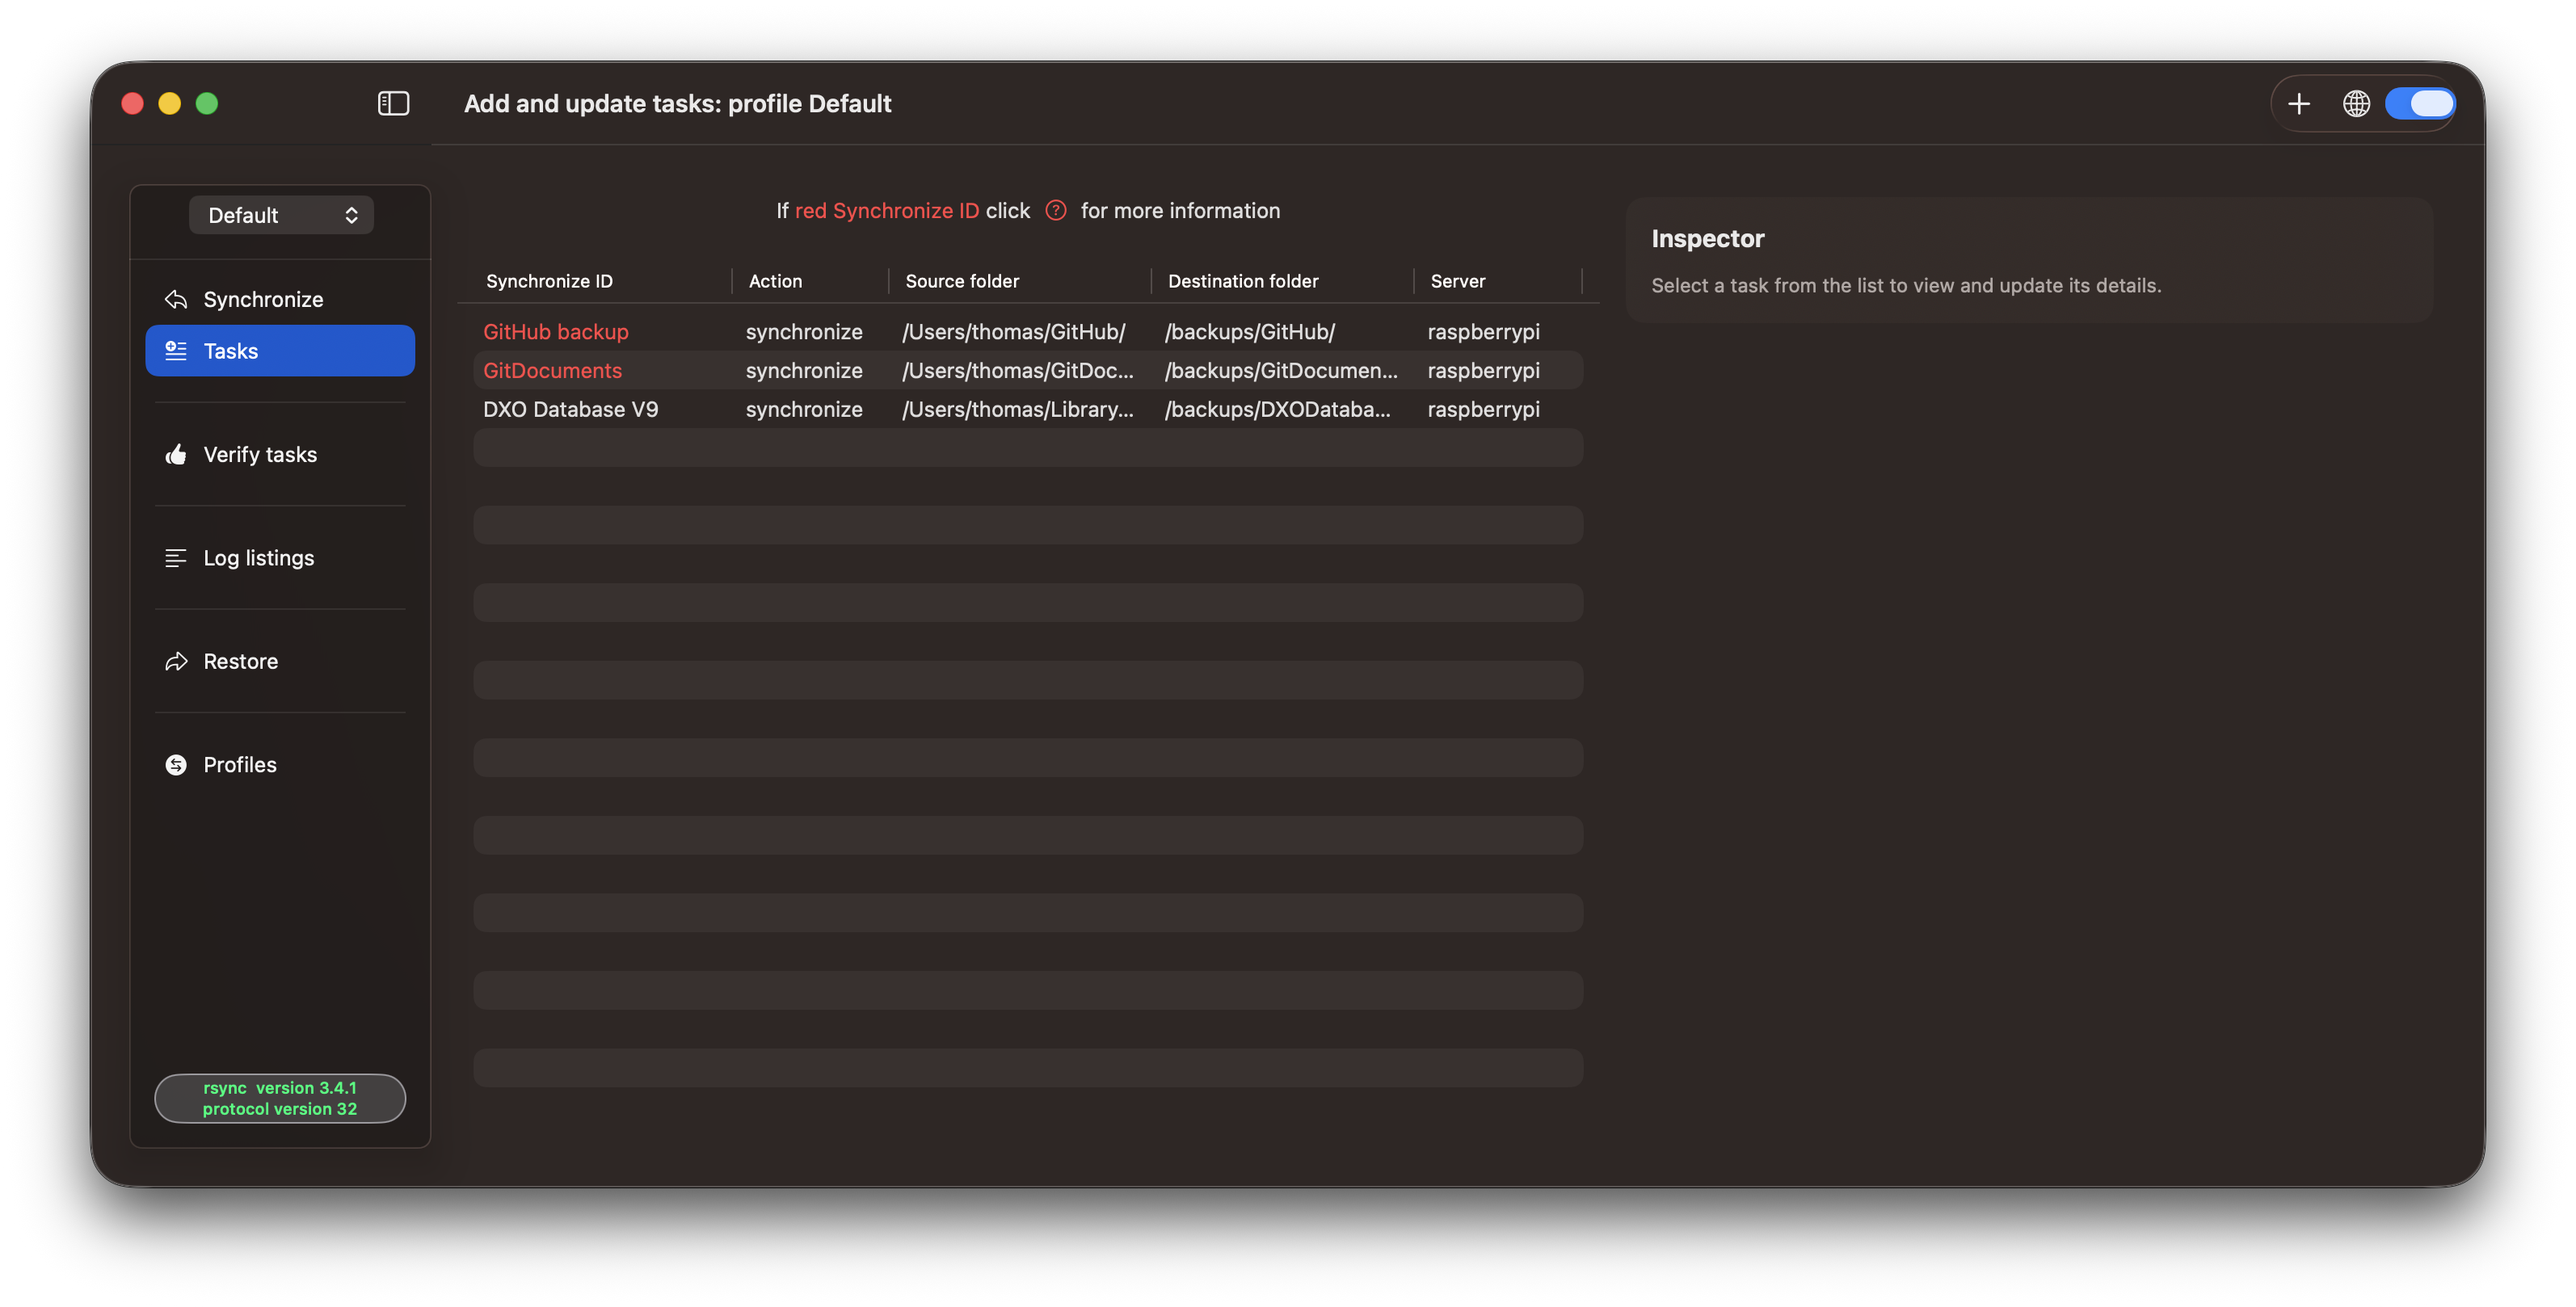
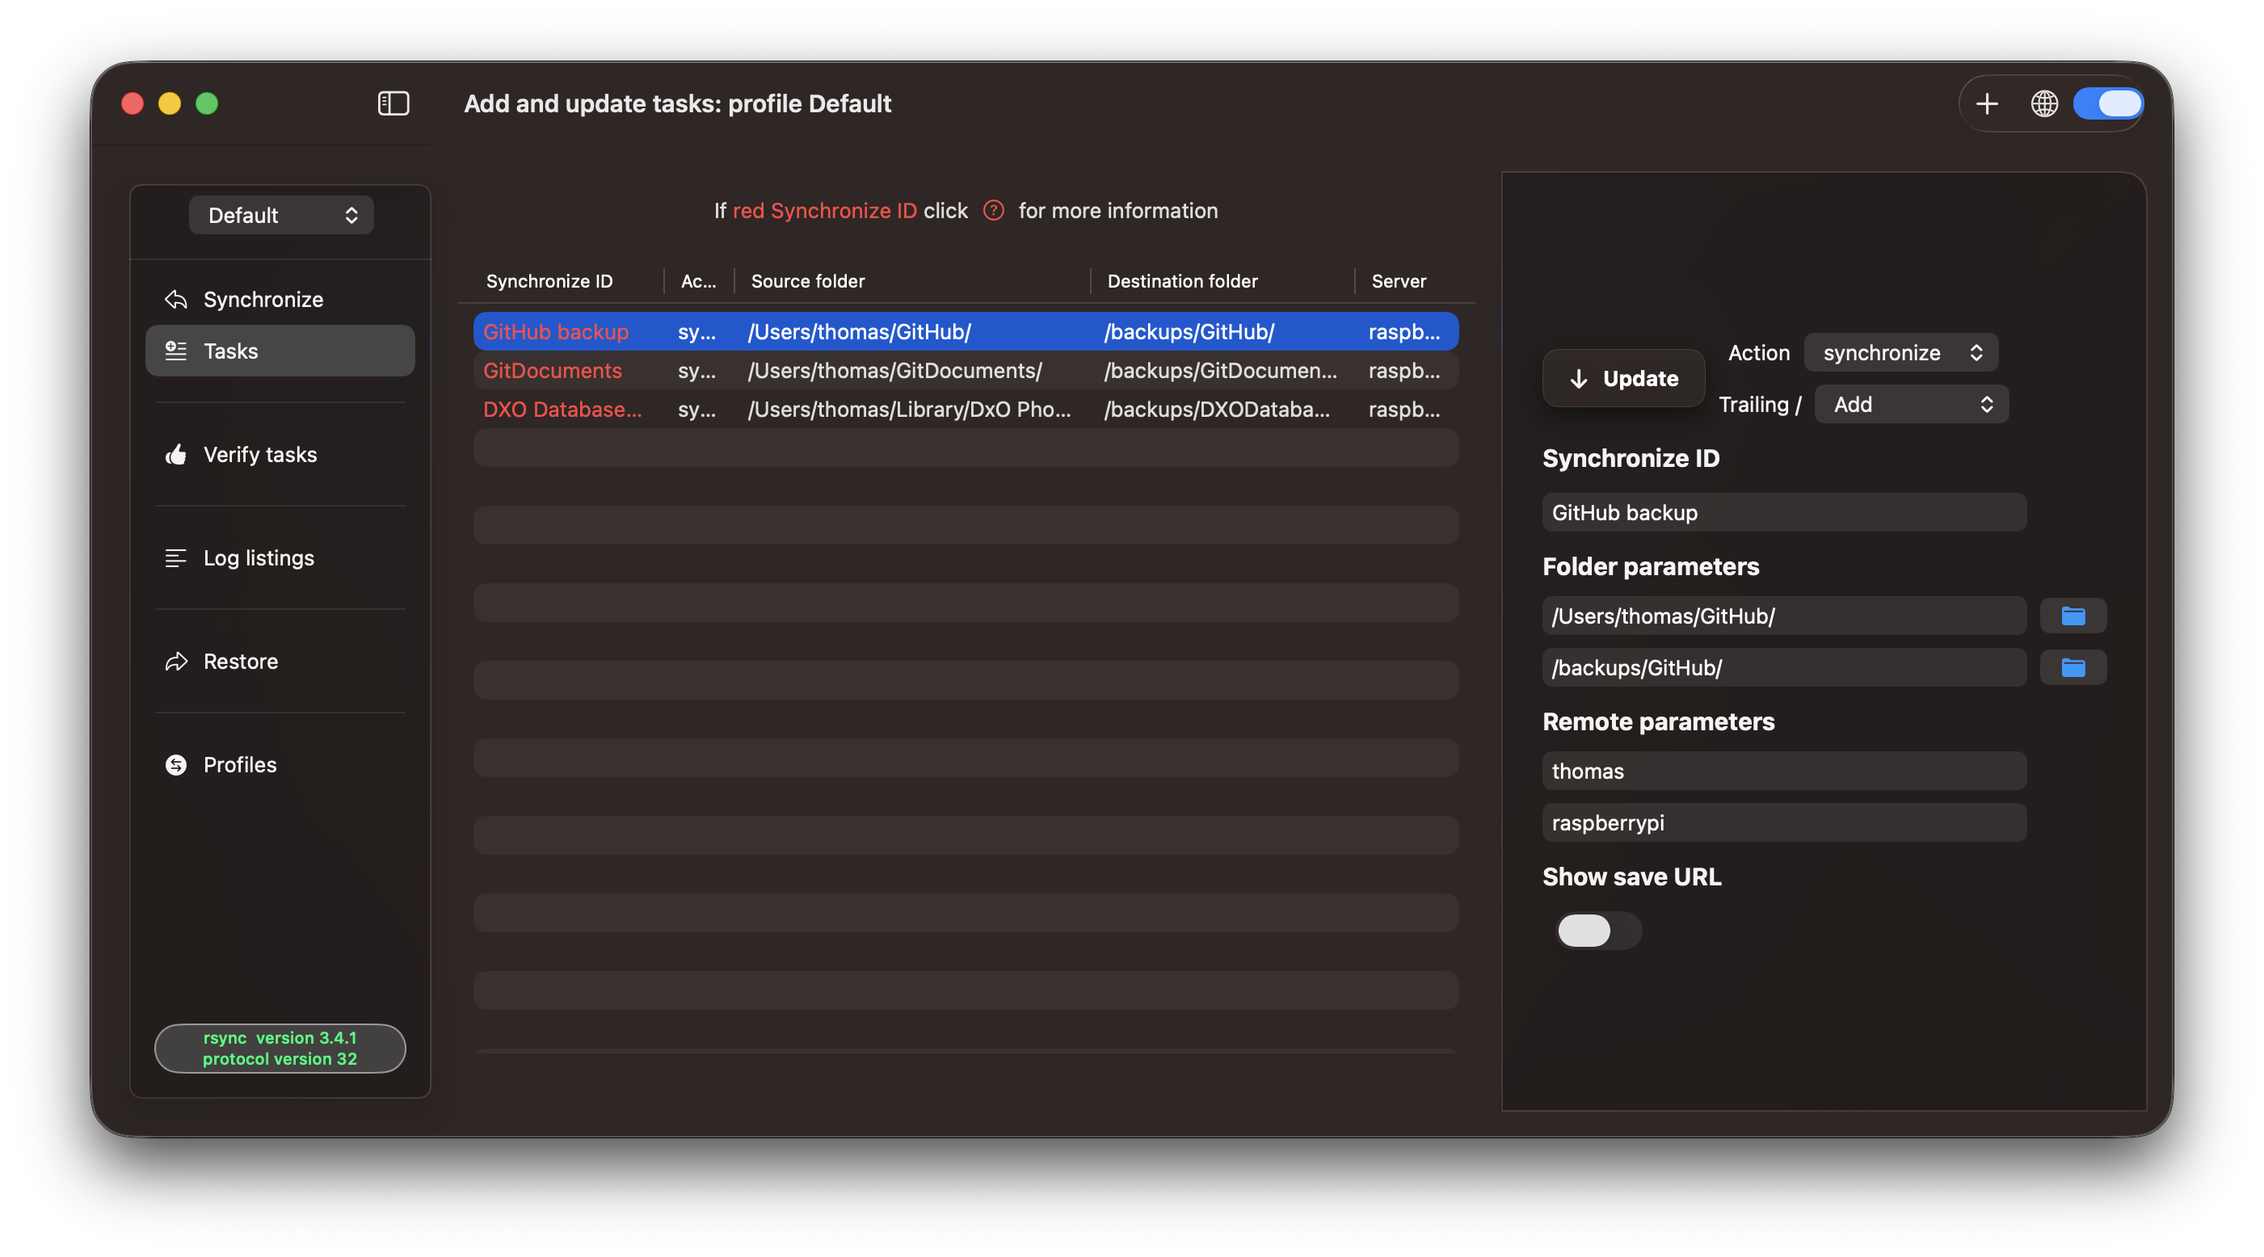
Update v285 blog post and images
Revised the Version285 blog post for clarity and conciseness, updated nr1.png and nr2.png images, and removed unused images nr3.png through nr7.png from the static assets.

diff --git a/content/en/blog/Version285.md b/content/en/blog/Version285.md
@@ -10,31 +10,17 @@ categories = ["changelog"]
 
 <div class="alert alert-danger" role="alert">
   
-This version introduces several modifications. Additionally, I anticipate the implementation of minor updates and bug fixes, as well as a comprehensive quality assurance and review process. A release candidate is scheduled for early January 2026, followed by a final release in January 2026.
+This version introduces several modifications. Additionally, I anticipate the implementation of minor updates and bug fixes, as well as a quality assurance and review process of changes. A release candidate is scheduled for early January 2026, followed by a final release in January 2026.
 
 </div>
 
-The primary advancement in this version is the implementation of significant user interface (UI) enhancements. These updates were requested by GitHub user @timreichen (Tim Reichen) to enhance the intuitiveness of RsyncUI. Thanks to Tim for his input.
+The primary advancement in this version is the implementation of significant user interface (UI) enhancements. These updates were requested by GitHub user @timreichen (Tim Reichen) to enhance the intuitiveness of RsyncUI. Tim Reichen's input is greatly appreciated.
 
-The UI improvements utilize the Inspector *like* view to provide detailed information about tasks. Adding new tasks is now facilitated through a dedicated sheet. Selecting a task displays its associated details. Additionally, a toggle on the toolbar allows users to switch between viewing task data and parameters.
+The UI improvements utilize the Inspector view to provide detailed information about tasks. Adding new tasks is now facilitated through a dedicated sheet. Selecting a task displays its associated details. Additionally, a toggle on the toolbar allows users to switch between viewing task data and parameters.
+
+The detail views are implemented by utilizing SwiftUI Inspector view.
 
 {{< figure src="/images/v285/nr1.png" alt="" position="center" style="border-radius: 8px;" >}}
 
 {{< figure src="/images/v285/nr2.png" alt="" position="center" style="border-radius: 8px;" >}}
-
-{{< figure src="/images/v285/nr3.png" alt="" position="center" style="border-radius: 8px;" >}}
-
-Toogle on the toolbar changes view to parameters Inpsector.
-
-{{< figure src="/images/v285/nr4.png" alt="" position="center" style="border-radius: 8px;" >}}
-
-{{< figure src="/images/v285/nr5.png" alt="" position="center" style="border-radius: 8px;" >}}
-
-Help view is also presented within the Inspector.
-
-{{< figure src="/images/v285/nr6.png" alt="" position="center" style="border-radius: 8px;" >}}
-
-{{< figure src="/images/v285/nr7.png" alt="" position="center" style="border-radius: 8px;" >}}
-
-
 
